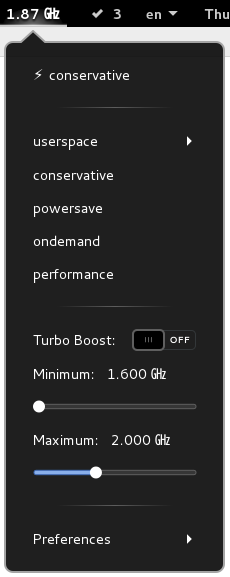
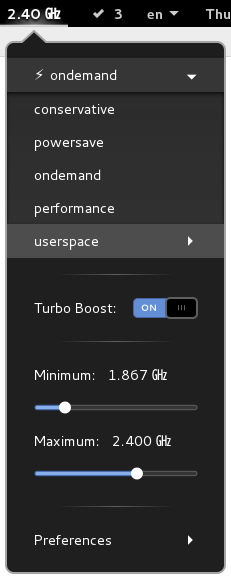
*UPDATE UI changes.

diff --git a/extension.js b/extension.js
@@ -176,13 +176,14 @@ const FrequencyIndicator = new Lang.Class({
         if (this.util_present) {
             this.governors = this._get_governors ();
             this.frequences = this._get_frequences ();
-            this.activeg = new PopupMenu.PopupMenuItem ("unknown");
+            this.activeg = new PopupMenu.PopupSubMenuMenuItem('Governors', false);
             this.menu.addMenuItem (this.activeg);
             let separator1 = new PopupMenu.PopupSeparatorMenuItem ();
-            this.menu.addMenuItem (separator1);
+            //this.menu.addMenuItem (separator1);
             let slider_min = null;
             let slider_max = null;
             let slider_lock = false;
+            let userspace = null;
 
             if (this.pstate_present) {
                 slider_min = new Slider.Slider (this._get_min_pstate () / 100);
@@ -197,8 +198,7 @@ const FrequencyIndicator = new Lang.Class({
                         this.activeg.label.text = governor[0];
                     }
                     if ((governor[0] == 'userspace') && (this.frequences.length > 0)) {
-                        let sm = new PopupMenu.PopupSubMenuMenuItem('userspace', false);
-                        this.menu.addMenuItem (sm);
+                        userspace = new PopupMenu.PopupSubMenuMenuItem('userspace', false);
                         for each (let freq in this.frequences){
                             let f = freq;
                             var s = '';
@@ -208,7 +208,7 @@ const FrequencyIndicator = new Lang.Class({
                                 s = (parseInt(freq)/1000).toFixed(0).toString() + " MHz";
                             }
                             let u_item = new PopupMenu.PopupMenuItem (s);
-                            sm.menu.addMenuItem (u_item);
+                            userspace.menu.addMenuItem (u_item);
                             u_item.connect ('activate', Lang.bind (this, function () {
                                 if (this.installed) {
                                     GLib.spawn_command_line_sync (this.pkexec_path + ' ' + this.cpufreqctl_path + ' gov userspace');
@@ -223,7 +223,7 @@ const FrequencyIndicator = new Lang.Class({
                         }
                     } else {
                         let governorItem = new PopupMenu.PopupMenuItem (governor[0]);
-                        this.menu.addMenuItem (governorItem);
+                        this.activeg.menu.addMenuItem (governorItem);
                         governorItem.connect ('activate', Lang.bind (this, function () {
                             if (this.installed) {
                                 let cmd = this.pkexec_path + ' ' + this.cpufreqctl_path + ' gov ' + governorItem.label.text;
@@ -243,7 +243,8 @@ const FrequencyIndicator = new Lang.Class({
                     }
                 }
             }
-            if (this.boost_present || this.pstate_present || (this.frequences.length > 0)) {
+            if (userspace != null) this.menu.addMenuItem (userspace);
+            if (this.boost_present || this.pstate_present) {
                 separator1 = new PopupMenu.PopupSeparatorMenuItem ();
                 this.menu.addMenuItem (separator1);
             }
@@ -255,6 +256,8 @@ const FrequencyIndicator = new Lang.Class({
                         this._set_turbo (item.state);
                     }
                 }));
+                separator1 = new PopupMenu.PopupSeparatorMenuItem ();
+                this.menu.addMenuItem (separator1);
                 let title_min = new PopupMenu.PopupMenuItem ('Minimum:', {reactive: false});
                 let label_min = new St.Label ({text: this._get_min_pstate().toString() + "%"});
                 title_min.actor.add_child (label_min, {align:St.Align.END});
@@ -294,7 +297,9 @@ const FrequencyIndicator = new Lang.Class({
                     }
                 }));
             }
-            if (!this.pstate_present || (this.frequences.length > 0)) {
+            if (!this.pstate_present || (this.frequences.length > 1)) {
+                separator1 = new PopupMenu.PopupSeparatorMenuItem ();
+                this.menu.addMenuItem (separator1);
                 let title_min = new PopupMenu.PopupMenuItem ('Minimum:', {reactive: false});
                 let label_min = new St.Label ({text: this._get_min_label ()});
                 title_min.actor.add_child (label_min, {align:St.Align.END});
